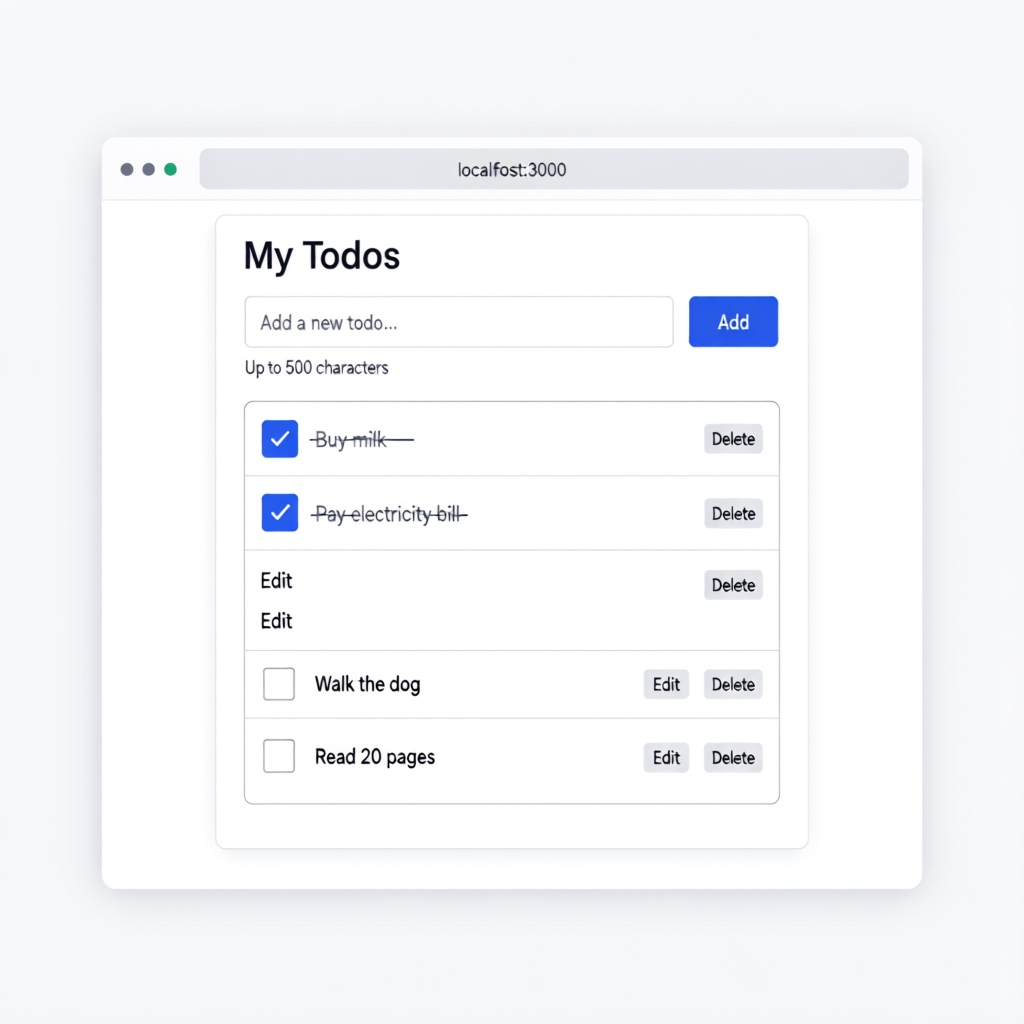
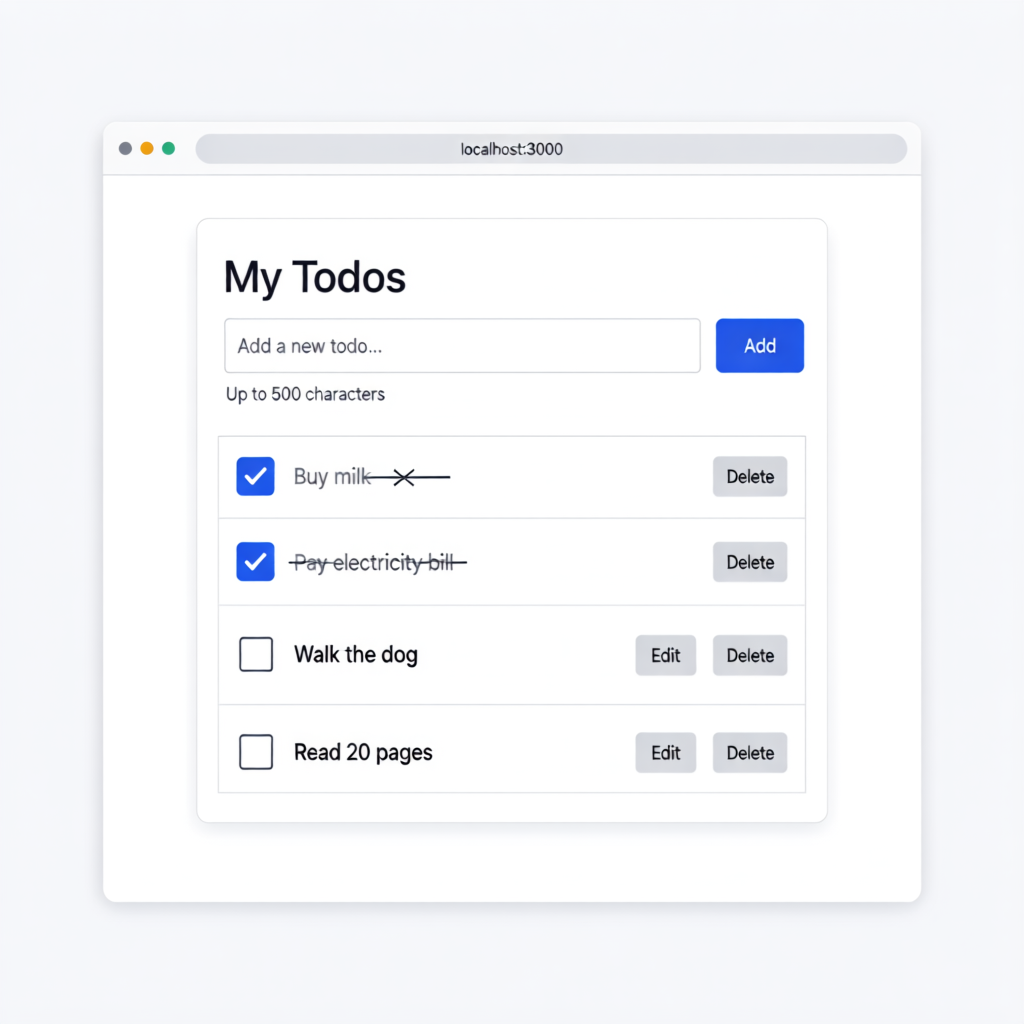
designs: list-as-panel captions kill ghost bands

diff --git a/designs/mockups/README.md b/designs/mockups/README.md
@@ -24,11 +24,8 @@ Figma-style JSON; each prompt file holds the exact caption used, so every render
 
 ## Known rendering artifacts
 
-Re-rolled per image over seeds 1–3 with frozen captions; the cleanest render was committed. Per the frozen-done-text rule, done rows intentionally lack Edit — checkbox + strikethrough + Delete only; not-done rows keep Edit + Delete.
+Captions use a list-as-panel structure (one layer describing the framed panel and all enumerated rows) after declared per-row label repeats proved to leak ghost bands; that restructure eliminated all ghost bands and floating labels — every committed render below was accepted on its first seeded draw (seed 1).
 
-- `03` (seed 1): clean.
-- `01` (seed 3): one ghost band with stray "Edit"/"Delete" buttons and no checkbox or text sits between rows 2 and 3 — the real list is the four rows; ghost bands are the known diffusion leak, ignore them.
-- `04` (seed 2): one phantom band labeled "Edit" with plain Edit/Delete buttons sits between the edit row and "Read 20 pages" — the single real edit band is the one with the input and the blue Save button.
-- `06` (seed 1): one text-less ghost band with stray "Edit"/"Delete" buttons sits between rows 2 and 3 — the real list is exactly the three todos under the red banner.
-- Strikethrough on done rows may extend past the text; the checkbox is the done indicator.
+- `01`, `03`, `04`, `06`: no phantom rows or stray labels; row counts exact; done rows show checkbox + strikethrough + Delete only (frozen-done-text rule), not-done rows show Edit + Delete; `04` has exactly one edit band (prefilled input + blue Save).
+- Strikethrough on done rows can extend slightly past the end of the text (occasionally with a small crossing tick at the end) — visual artifact of the diffusion text renderer; the checkbox is the done indicator.
 - `06` depicts three todos while others show four — deliberate simplification after the renderer duplicated rows; journeys use four as illustrative copy only.
